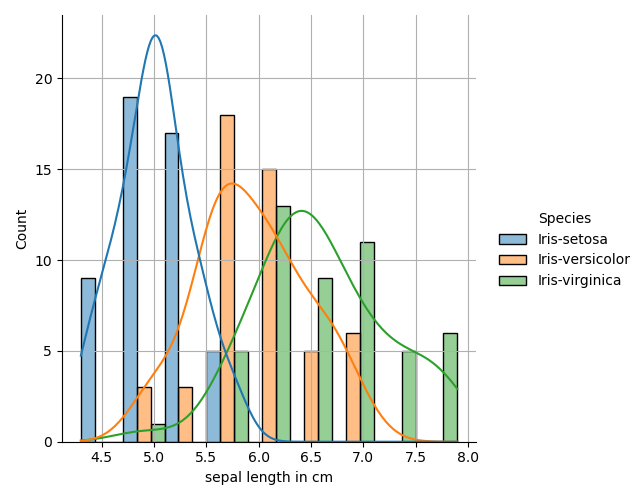
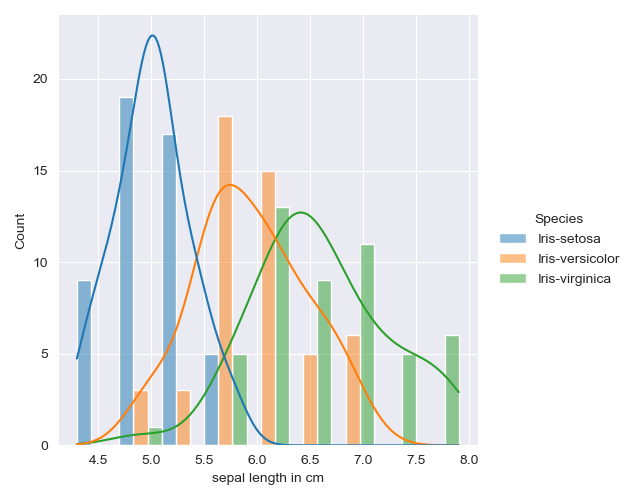
add scatterplots for variables

diff --git a/analysis.py b/analysis.py
@@ -54,55 +54,111 @@ with open("iris_summary.txt", "w") as f:
 # Histograms of the variables
 
 #sepal length
-
+sns.set_style("darkgrid")
 sns.displot(irisData, x = "sepal length in cm", hue="Species", kde=True, multiple="dodge") # hue color codes by that variable
 # dodge makes the different species easier to see # kde adds a kernal density estimator line to the plot
-plt.grid()
 # Saves the plot as a png image
 plt.savefig('Histogram_All_SepalLength.png')
-plt.clf() # Clears the plot so a new plot can be created. Without this, the subsequent plots are combined into the previous plot
+plt.show() # Clears the plot so a new plot can be created. Without this, the subsequent plots are combined into the previous plot
 
+sns.set_style("darkgrid")
 sns.displot(data=irisData, x="sepal length in cm", hue="Species", col="Species", kde=True)  
-plt.grid()
 plt.savefig('Histogram_Individual_SepalLength.png')
-plt.clf() 
+plt.show() 
 
 # sepal width
+sns.set_style("darkgrid")
 sns.displot(irisData, x = "sepal width in cm", hue="Species", kde=True, multiple="dodge") # hue color codes by that variable
 # dodge makes the different species easier to see # kde adds a kernal density estimator line to the plot
-plt.grid()
 # Saves the plot as a png image
 plt.savefig('Histogram_All_SepalWidth.png')
-plt.clf() # Clears the plot so further plots can be created.
+plt.show() # Clears the plot so further plots can be created.
 
+sns.set_style("darkgrid")
 sns.displot(data=irisData, x="sepal width in cm", hue="Species", col="Species", kde=True)  
-plt.grid()
 plt.savefig('Histogram_Individual_SepalWidth.png')
-plt.clf() 
+plt.show() 
 
 # petal length
+sns.set_style("darkgrid")
 sns.displot(irisData, x = "petal length in cm", hue="Species", kde=True, multiple="dodge") # hue color codes by that variable
 # dodge makes the different species easier to see # kde adds a kernal density estimator line to the plot
-plt.grid()
 # Saves the plot as a png image
 plt.savefig('Histogram_All_PetalLength.png')
-plt.clf() # Clears the plot so further plots can be created.
+plt.show() # Clears the plot so further plots can be created.
 
+sns.set_style("darkgrid")
 sns.displot(data=irisData, x="petal length in cm", hue="Species", col="Species", kde=True)  
-plt.grid()
 plt.savefig('Histogram_Individual_PetalLength.png')
-plt.clf() 
+plt.show() 
 
 # petal width
+sns.set_style("darkgrid")
 sns.displot(irisData, x = "petal width in cm", hue="Species", kde=True, multiple="dodge") # hue color codes by that variable
 # dodge makes the different species easier to see # kde adds a kernal density estimator line to the plot
-plt.grid()
 # Saves the plot as a png image
 plt.savefig('Histogram_All_PetalWidth.png')
-plt.clf() # Clears the plot so further plots can be created. 
+plt.show() # Clears the plot so further plots can be created. 
 
+sns.set_style("darkgrid")
 sns.displot(data=irisData, x="petal width in cm", hue="Species", col="Species", kde=True)  
-plt.grid()
 plt.savefig('Histogram_Individual_PetalWidth.png')
-plt.clf() 
+plt.show()
 
+# Making Scatterplots:
+# Seaborn has functionality called pairplot that allows for visualisation of multidimensional relationships in the data.
+sns.set_style("whitegrid")
+sns.pairplot(irisData, hue="Species", size=2.5)
+plt.title("Pairplot of Iris Dataset Varaibles") # this is showing up in the middle-- FIX!
+plt.savefig("pairplot.png")
+plt.show()
+# from https://jakevdp.github.io/PythonDataScienceHandbook/04.14-visualization-with-seaborn.html
+# changed size to height because threw error as new update in seaborn
+# https://stackoverflow.com/questions/51400076/change-seaborn-pair-plot-figure-size
+
+# Done individually it is easier to make observations
+# https://www.geeksforgeeks.org/plotting-graph-for-iris-dataset-using-seaborn-and-matplotlib/
+
+#sepal length sepal width scatterplot
+sns.set_style("whitegrid") # add background grid and set style
+sns.FacetGrid(irisData, hue="Species", size=4).map(plt.scatter,"sepal length in cm","sepal width in cm").add_legend()
+# Facet grid shows conditional relationships. Hue specifies what variable sets the color coding of the plot. 
+#.map sets the type of plot and then columns for the x and y axis. Legend had to be added to explain what the colors represent.
+plt.title("Examining Sepal Length and Sepal Width Correlation")
+plt.savefig("scatter_sl_sw.png")
+plt.show()
+
+#sepal length petal width scatterplot
+sns.set_style("whitegrid")
+sns.FacetGrid(irisData, hue="Species", size=4).map(plt.scatter,"sepal length in cm","petal length in cm").add_legend()
+plt.title("Examining Sepal Length and Petal Length Correlation")
+plt.savefig("scatter_sl_pl.png")
+plt.show()
+
+#sepal length petal width scatterplot
+sns.set_style("whitegrid")
+sns.FacetGrid(irisData, hue="Species", size=4).map(plt.scatter,"sepal length in cm","petal width in cm").add_legend()
+plt.title("Examining Sepal Length and Petal Width Correlation")
+plt.savefig("scatter_sl_pw.png")
+plt.show()
+
+#sepal width petal length scatterplot
+sns.set_style("whitegrid")
+sns.FacetGrid(irisData, hue="Species", size=4).map(plt.scatter,"sepal width in cm","petal length in cm").add_legend()
+plt.title("Examining Sepal Width and Petal Length Correlation")
+plt.savefig("scatter_sw_pl.png")
+plt.show()
+
+#sepal width petal width scatterplot
+sns.set_style("whitegrid")
+sns.FacetGrid(irisData, hue="Species", size=4).map(plt.scatter,"sepal width in cm","petal width in cm").add_legend()
+plt.title("Examining Sepal Width and Petal Width Correlation")
+plt.savefig("scatter_sw_pw.png")
+plt.show()
+
+#petal length petal width
+sns.set_style("whitegrid")
+sns.FacetGrid(irisData, hue="Species", size=4).map(plt.scatter,"petal length in cm","petal width in cm").add_legend()
+plt.title("Examining Petal Length and Petal Width Correlation")
+plt.savefig("scatter_pl_pw.png")
+plt.show()
